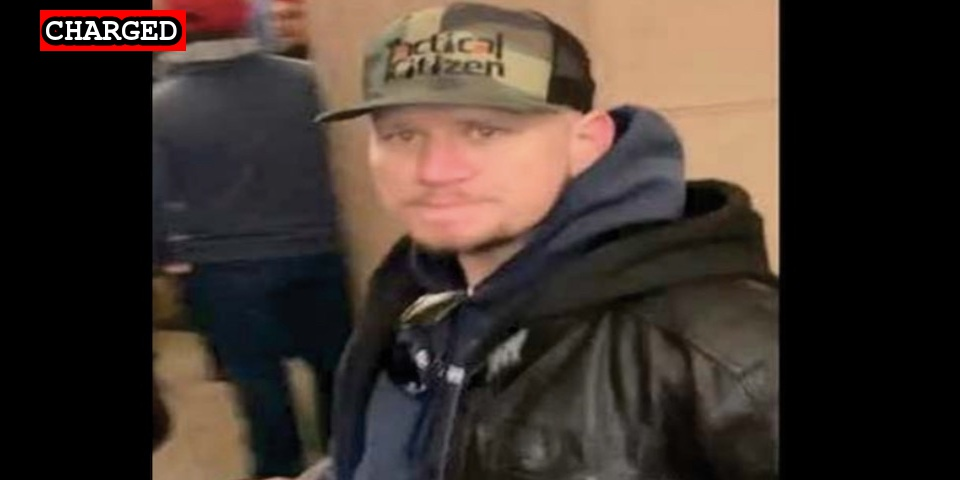
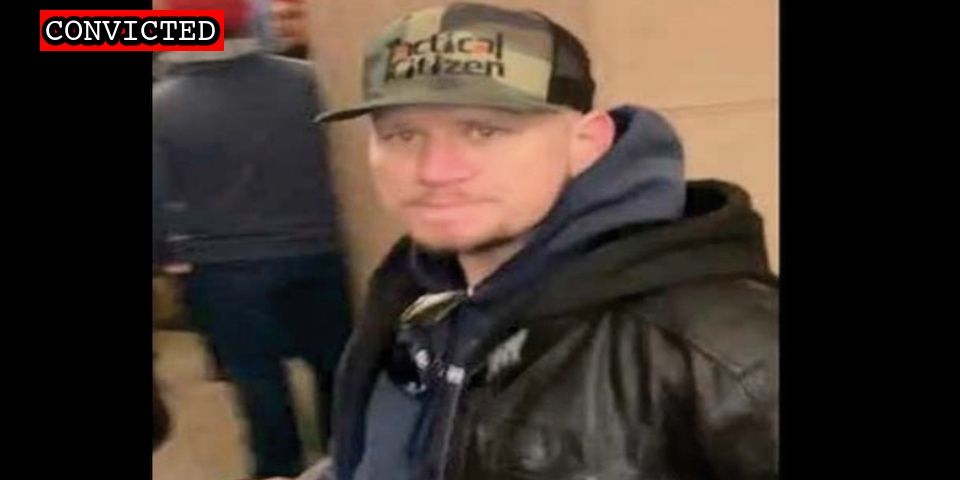
Latest import

Changed region(s): [[0.0312, 0.0, 0.25, 0.125]]

diff --git a/commands/sheet-publish.ts b/commands/sheet-publish.ts
@@ -174,7 +174,7 @@ const publishSheet = async () => {
     const { src, id, missingImage, hashtag, charged, name, afo, aom, arrested, identified, sedition_link } = perp;
 
     const perpData = {
-      Number: `=HYPERLINK("${perp.src.replace("@@images/image/pre", "")}", ${id})`,
+      Number: src ? `=HYPERLINK("${perp.src.replace("@@images/image/pre", "")}", ${id})` : id,
       Photo:
         missingImage || !hashtag
           ? `=IMAGE("${src}")`

diff --git a/docs/_suspects/andrew-cavanaugh.md b/docs/_suspects/andrew-cavanaugh.md
@@ -4,15 +4,15 @@ lastName: Cavanaugh
 hashtag: AndrewCavanaugh
 aka:
 residence: Montana
-status: Charged
+status: Convicted
 date: 2021-03-15
 charged: 2021-03-15
 indicted:
-convicted: 
+convicted: 2022-02-17
 sentenced: 
 dismissed: 
 deceased:
-plea_hearing:
+plea_hearing: 2022-02-17
 sentencing:
 age: 36
 occupation: Business Owner (Tactical Citizen, LLC)
@@ -34,8 +34,13 @@ published: true
 caseNumber: 1:21-cr-362
 videos:
 charges:
+- code: 18 USC § 5104(e)(2)(G)
+  title: Parading, demonstrating or picketing in a Capitol building
+  url: https://www.law.cornell.edu/uscode/text/40/5104
+  felony: false
 sentence:
 ---
 - [News Report](https://www.kbzk.com/news/crime-courts/bozeman-man-facing-charges-for-alleged-offenses-at-us-capitol-on-jan-6)
-- [Statement of Facts](https://www.justice.gov/usao-dc/case-multi-defendant/file/1378536/download)
+- [Statement of Facts](https://www.justice.gov/usao-dc/case-multi-defendant/file/1476951/download)
 - [Information](https://www.justice.gov/usao-dc/case-multi-defendant/file/1397111/download)
+- [Plea Agreement](https://www.justice.gov/usao-dc/case-multi-defendant/file/1476946/download)
